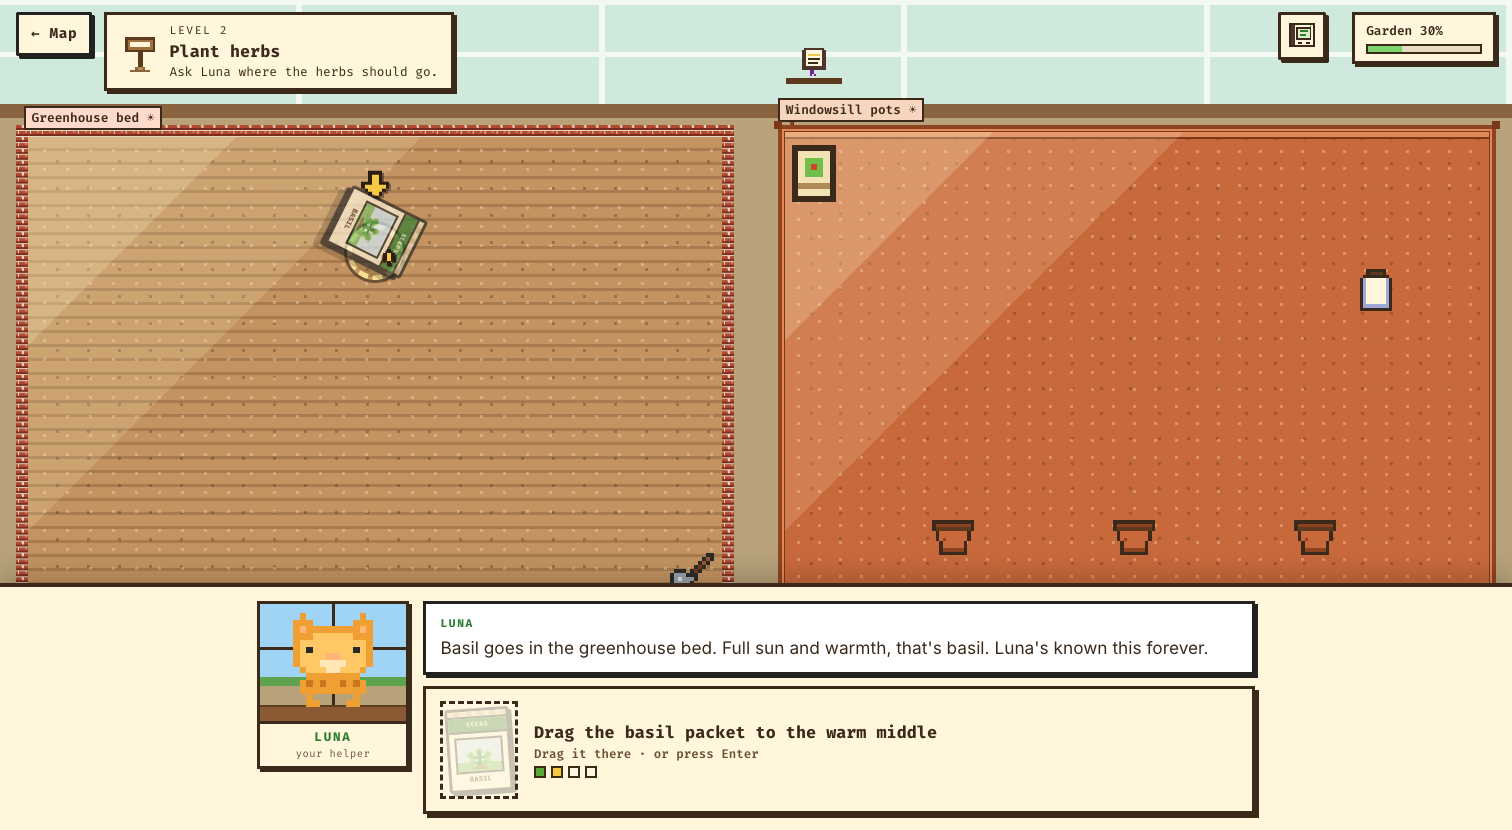
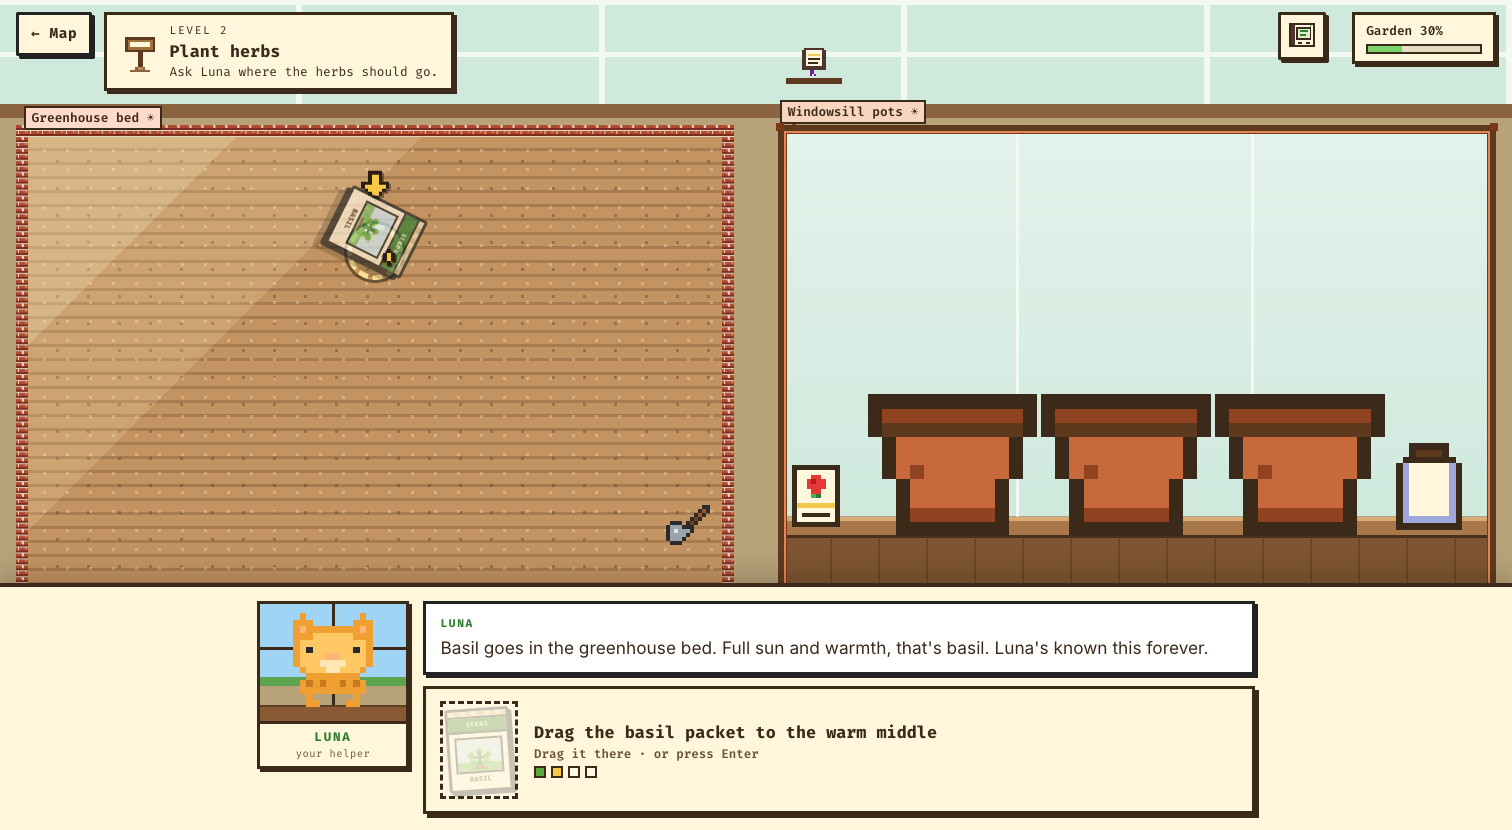
style(v2): Level 2's windowsill is a real sill: big pots, packet and tea jar on the sill line, glass behind; the bench trowel clears the dock

Changed region(s): [[0.4974, 0.1205, 0.9947, 0.7229], [0.4352, 0.6024, 0.4663, 0.7229]]

diff --git a/v2/css/l2-greenhouse.css b/v2/css/l2-greenhouse.css
@@ -1,0 +1,41 @@
+/* Level 2 (greenhouse) only: the windowsill bed reads as a real sill.
+   Above the sill line: the glass behind it. On the line: a wooden sill lip
+   that the pots, the seed packet and the tea jar stand on (their bottoms are
+   anchored to the line). Below it: the sill's front board. No terracotta field.
+   The props are % of the scene, so their sizes scale with the bed on a phone
+   and a laptop. Loaded by v2/actions/wipe.js, like l3-spray.css. */
+.level[data-scene="greenhouse"] .bed[data-bed="sill"] {
+  --sill-line: 81%;
+  --bed-detail: none;
+  --bed-light: none;
+  --bed-soil:
+    /* the lip: a light top edge, the plank, a dark shadow line */
+    /* drawn as bands from the line down: a stripe image anchored at the bottom whose top is the line */
+    linear-gradient(#d9ac72 0 4px, #a8784a 4px 18px, #4a2e17 18px 21px, transparent 21px) 0 100% / 100% calc(100% - var(--sill-line)) no-repeat,
+    /* the front board: plank seams */
+    repeating-linear-gradient(90deg, #7d5532 0 46px, #6a4528 46px 48px) 0 100% / 100% calc(100% - var(--sill-line) - 21px) no-repeat,
+    /* the glass: white glazing bars over the pale sky */
+    linear-gradient(90deg, transparent 0 calc(33.3% - 3px), #f4f8f2 calc(33.3% - 3px) 33.3%, transparent 33.3% calc(66.6% - 3px), #f4f8f2 calc(66.6% - 3px) 66.6%, transparent 66.6%) 0 0 / 100% var(--sill-line) no-repeat,
+    linear-gradient(#e3f2ea, #cfe9dd) 0 0 / 100% var(--sill-line) no-repeat,
+    #7d5532;
+  border: 6px solid #5d3a1e;
+  border-image: none;
+}
+
+/* Everything on the sill stands with its bottom on the sill line. */
+.level[data-scene="greenhouse"] .prop[data-prop^="pot-"],
+.level[data-scene="greenhouse"] .prop[data-prop="jar"],
+.level[data-scene="greenhouse"] .prop[data-prop="packet"] {
+  transform: translate(-50%, -100%);
+}
+.level[data-scene="greenhouse"] .prop[data-prop^="pot-"] { width: 15% !important; }
+.level[data-scene="greenhouse"] .prop[data-prop="jar"] { width: 7% !important; }
+.level[data-scene="greenhouse"] .prop[data-prop="packet"] { width: 5% !important; pointer-events: none; }
+/* The mint plug set in pot 1 stands in the pot's soil, at the pot's size. */
+.level[data-scene="greenhouse"] .act-mark--stand img { width: 64px; height: 64px; }
+
+/* The bench's corner trowel sat under the dock on a laptop: lift it clear of
+   the dock, below the basil rows. */
+.level[data-scene="greenhouse"] .bed[data-bed="bench"] {
+  --bed-detail: var(--spr-trowel) right 12px bottom 56px / var(--d) auto no-repeat;
+}

diff --git a/v2/levels/level-2.js b/v2/levels/level-2.js
@@ -30,10 +30,13 @@ export default {
     // Hands-on targets (v2/actions): the fogged pane, Luna's tea jar and three
     // empty pots on the sill. The pots stay empty unless you catch the drift.
     { id: "glass", sprite: "./art/l2-fog.svg", x: 62, y: 10, w: 96, label: "foggy glass", alt: "" },
-    { id: "jar", sprite: "./art/l2-jar-empty.svg", x: 91, y: 46, w: 52, label: "tea jar", alt: "" },
-    { id: "pot-1", sprite: "./art/l2-pot-empty.svg", x: 63, y: 84, w: 56, label: "first pot", alt: "" },
-    { id: "pot-2", sprite: "./art/l2-pot-empty.svg", x: 75, y: 84, w: 56, label: "middle pot", alt: "" },
-    { id: "pot-3", sprite: "./art/l2-pot-empty.svg", x: 87, y: 84, w: 56, label: "end pot", alt: "" },
+    // On the windowsill: a seed packet, three pots and Luna's tea jar, all
+    // standing on the sill line (y = the line; css/l2-greenhouse.css sizes them).
+    { id: "packet", sprite: "./art/seed-packet.svg", x: 54, y: 85.5, label: "seed packet", alt: "" },
+    { id: "pot-1", sprite: "./art/l2-pot-empty.svg", x: 63, y: 85.5, label: "first pot", alt: "" },
+    { id: "pot-2", sprite: "./art/l2-pot-empty.svg", x: 74.5, y: 85.5, label: "middle pot", alt: "" },
+    { id: "pot-3", sprite: "./art/l2-pot-empty.svg", x: 86, y: 85.5, label: "end pot", alt: "" },
+    { id: "jar", sprite: "./art/l2-jar-empty.svg", x: 94.5, y: 85.5, label: "tea jar", alt: "" },
   ],
   // Where the director points inside the greenhouse bed (% of the bed).
   spots: {

diff --git a/v2/actions/wipe.js b/v2/actions/wipe.js
@@ -12,6 +12,14 @@ if (typeof document !== "undefined" && !document.querySelector("link[data-l3-spr
   link.dataset.l3SprayCss = "";
   document.head.append(link);
 }
+// Level 2's greenhouse dressing (the sill the pots stand on), scoped to that scene.
+if (typeof document !== "undefined" && !document.querySelector("link[data-l2-css]")) {
+  const link = Object.assign(document.createElement("link"), {
+    rel: "stylesheet", href: new URL("../css/l2-greenhouse.css", import.meta.url).href,
+  });
+  link.dataset.l2Css = "";
+  document.head.append(link);
+}
 const drop = () => Object.assign(document.createElement("div"), { className: "l3-drop" });
 
 export default {

diff --git a/docs/superpowers/specs/2026-11-14-level-2-hands-on.md b/docs/superpowers/specs/2026-11-14-level-2-hands-on.md
@@ -117,6 +117,7 @@ What changed from the plan above, and why:
 - **Basil and mint go in from the seed packet** (shared `plant`), not the plug sprites, so the sprinkle matches every other level. The mint plug is used once, on the caught path: it is poked into the pot and stays standing.
 - **`wipe` is three drags of the cloth,** not a coverage percentage. Each pass thins the fog by a third. It also lands on Skip, so the glass is clear either way.
 - **`mist` and the wipe drips use Level 3's liquid look** (`.l3-jet--mist`, `.l3-drop` from v2/css/l3-spray.css): stepped timing and no glow. Reduced motion caps each step at 160 ms.
+- **The windowsill reads as a sill** (v2/css/l2-greenhouse.css, scoped to the greenhouse scene and loaded by wipe.js). The glass is behind, with a wooden lip and front board. The seed packet, three big pots (15% of the scene each, about a third of the bed) and the tea jar all stand on the sill line. The bench's corner trowel sits above the dock.
 - **Fog is not saved.** After a reload mid-level the glass shows fog again, like every other action mark.
 
 | Beat | By hand |
